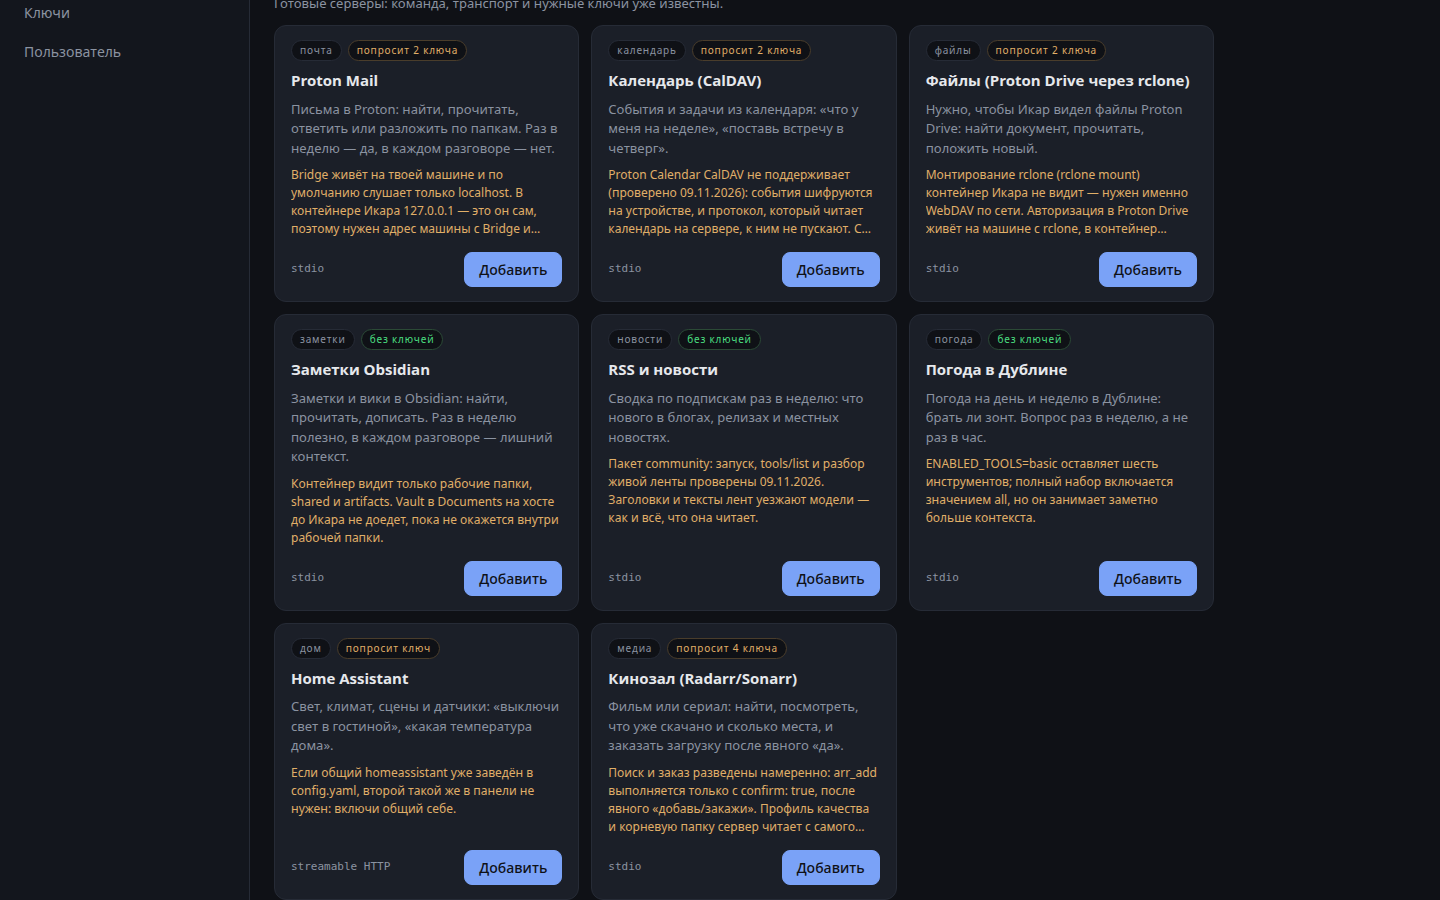
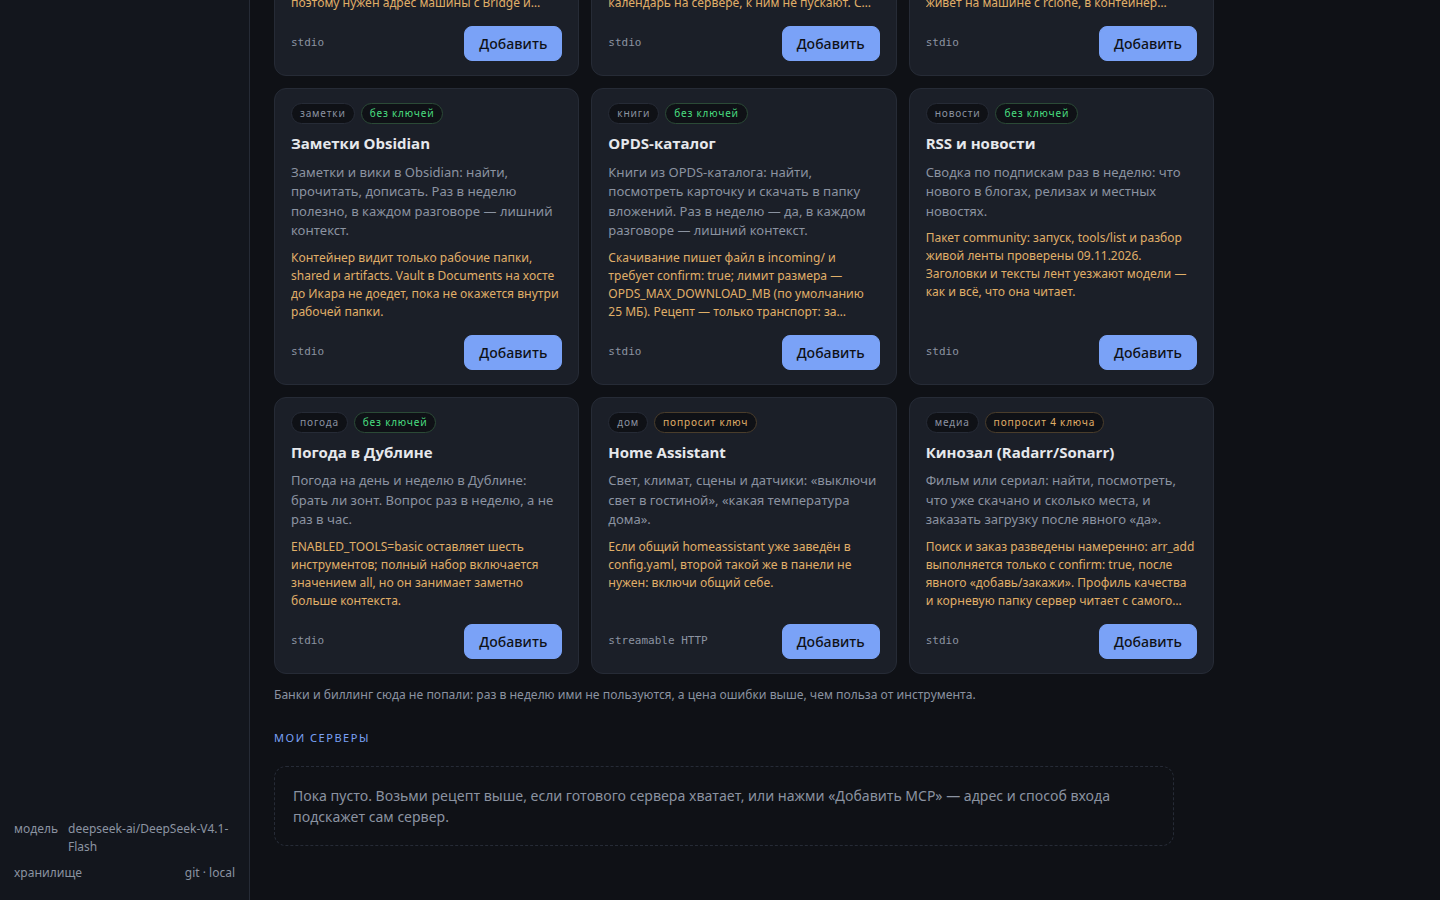
docs(mcp): скриншоты кинозала после ребейза на main
Каталог рецептов после ребейза показывает оба сервера — OPDS-каталог (#174) и
Кинозал; кадры сняты заново, вместе с формой ключей и списком серверов. В README
перечень рецептов дополнен OPDS: без него список отставал от каталога.

diff --git a/README.md b/README.md
@@ -265,8 +265,8 @@ mcp:
 
 Над списком серверов лежит каталог **рецептов** — готовых описаний для тех серверов, которые
 нужны чаще всего: Proton Mail через Bridge, календарь по CalDAV, файлы Proton Drive через
-rclone, заметки Obsidian, RSS, погода в Дублине, Кинозал (Radarr/Sonarr) и Home Assistant.
-Кнопка «Добавить» открывает
+rclone, заметки Obsidian, книги из OPDS-каталога, RSS, погода в Дублине, Кинозал (Radarr/Sonarr)
+и Home Assistant. Кнопка «Добавить» открывает
 обычную форму с уже подставленными командой, транспортом и несекретными настройками (порты,
 адреса): человеку остаётся вписать только ключи. У каждого рецепта написано, когда сервер
 нужен, что должно быть снаружи (платный тариф, запущенный Bridge, rclone, HA), что делать по
